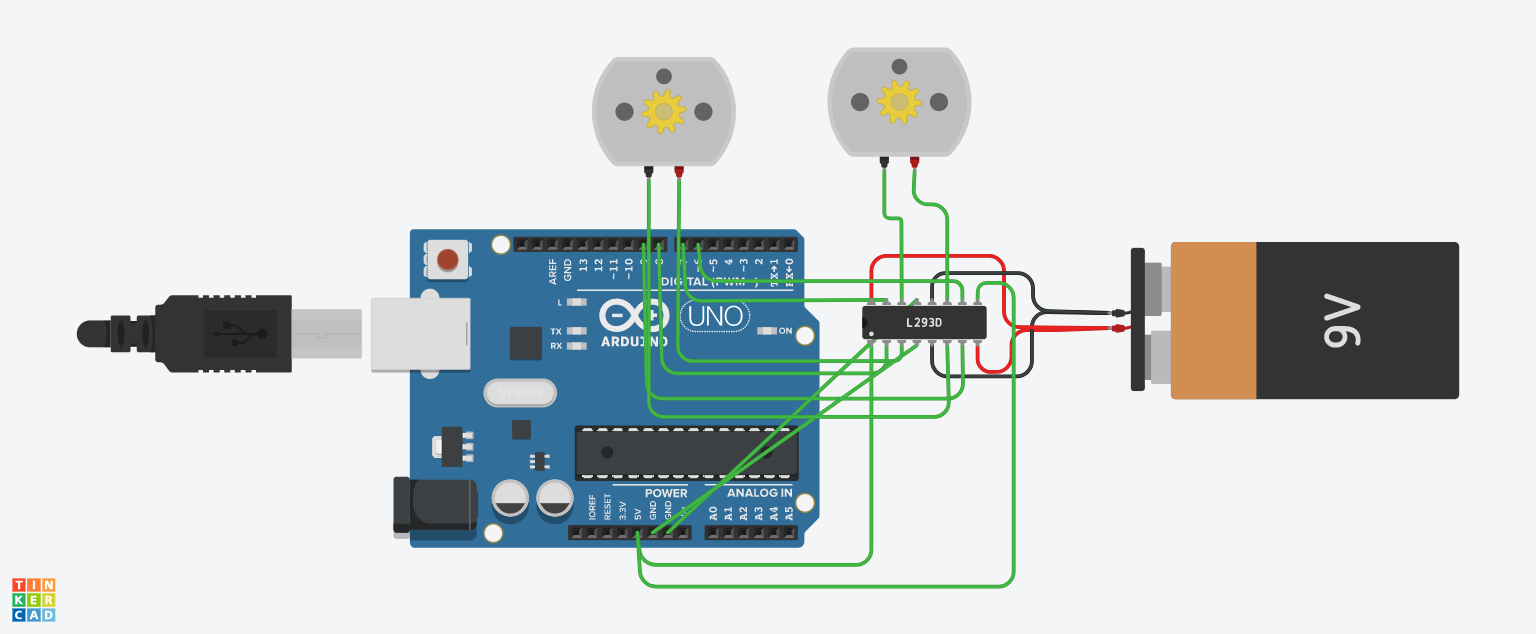
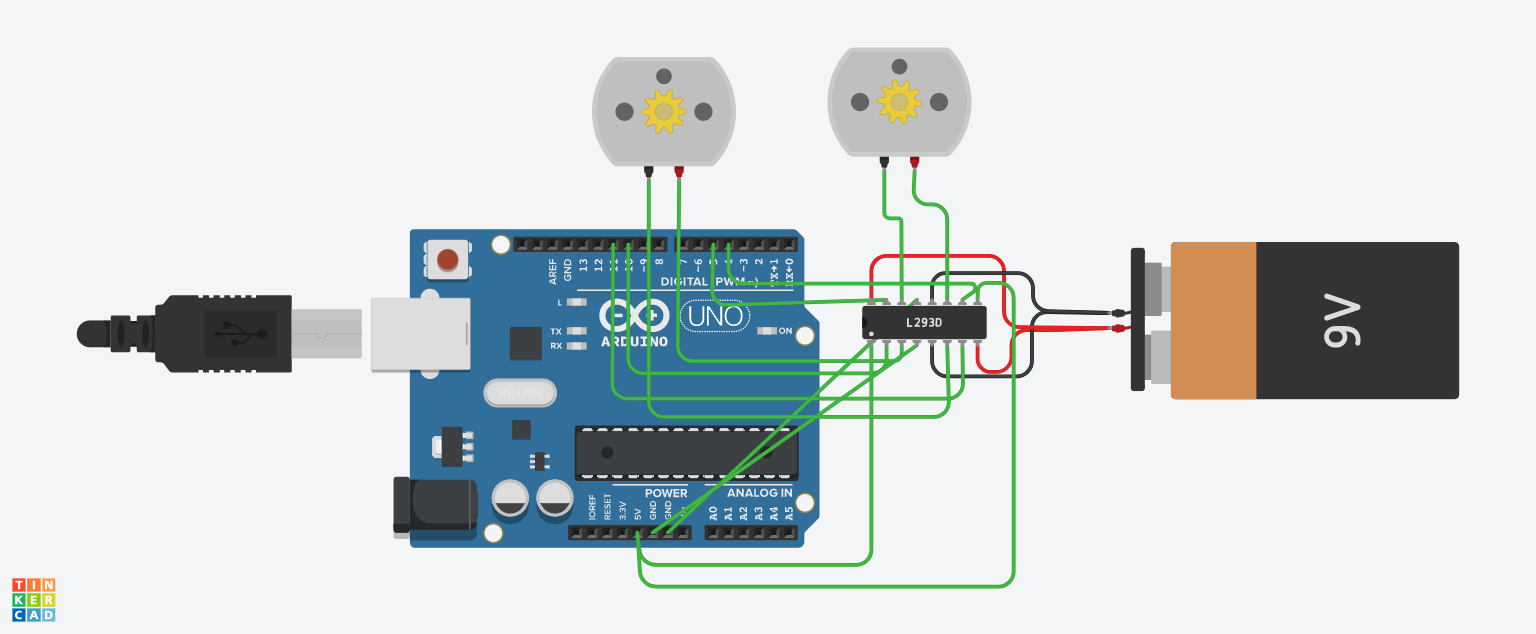
提交第三次作业by姚诗懿 19140100228

Changed region(s): [[0.375, 0.3896, 0.625, 0.6293], [0.4062, 0.1498, 0.4375, 0.2098], [0.625, 0.4495, 0.6562, 0.4795]]

diff --git a/lessons 3/zhuanlun.c b/lessons 3/zhuanlun.c
@@ -2,10 +2,10 @@ char ch=' ';
 void setup()
 {
     Serial.begin(9600);
-    pinMode(6,OUTPUT);
-    pinMode(7,OUTPUT);
-    pinMode(8,OUTPUT);
-    pinMode(9,OUTPUT);
+    pinMode(4,OUTPUT);
+    pinMode(5,OUTPUT);
+    pinMode(10,OUTPUT);
+    pinMode(11,OUTPUT);
   Serial.println("ok");
 }
 /*
@@ -23,34 +23,34 @@ void loop()
     switch(ch)
     {
       case'b':
-       digitalWrite(6,HIGH);
-       digitalWrite(7,LOW);
-       digitalWrite(8,HIGH);
-       digitalWrite(9,LOW);
+       digitalWrite(4,HIGH);
+       digitalWrite(5,LOW);
+       digitalWrite(10,HIGH);
+       digitalWrite(11,LOW);
       break;
       case'f':
-       digitalWrite(7,HIGH);
-       digitalWrite(6,LOW);
-       digitalWrite(9,HIGH);
-       digitalWrite(8,LOW);
+       digitalWrite(5,HIGH);
+       digitalWrite(4,LOW);
+       digitalWrite(11,HIGH);
+       digitalWrite(10,LOW);
       break;
       case'l':
-       digitalWrite(7,HIGH);
-       digitalWrite(6,LOW);
-       digitalWrite(8,HIGH);
-       digitalWrite(9,LOW);
+       digitalWrite(5,HIGH);
+       digitalWrite(4,LOW);
+       digitalWrite(10,HIGH);
+       digitalWrite(11,LOW);
       break;
       case'r':
-       digitalWrite(6,HIGH);
-       digitalWrite(7,LOW);
-       digitalWrite(9,HIGH);
-       digitalWrite(8,LOW);
+       digitalWrite(4,HIGH);
+       digitalWrite(5,LOW);
+       digitalWrite(11,HIGH);
+       digitalWrite(10,LOW);
       break;
       case's':
-       digitalWrite(6,LOW);
-       digitalWrite(7,LOW);
-       digitalWrite(8,LOW);
-       digitalWrite(9,LOW);
+       digitalWrite(4,LOW);
+       digitalWrite(5,LOW);
+       digitalWrite(10,LOW);
+       digitalWrite(11,LOW);
       default:
       break;
     }
